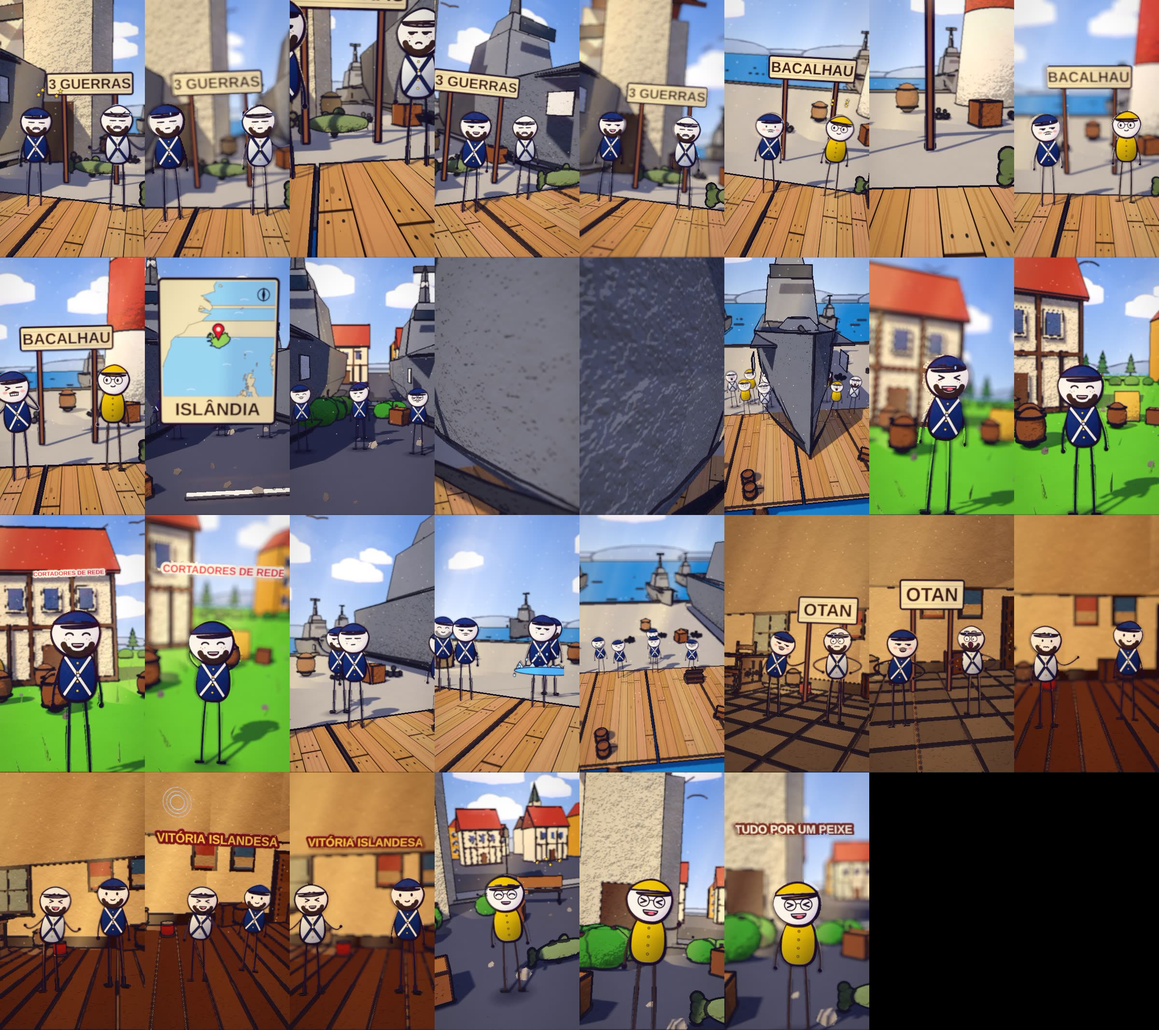
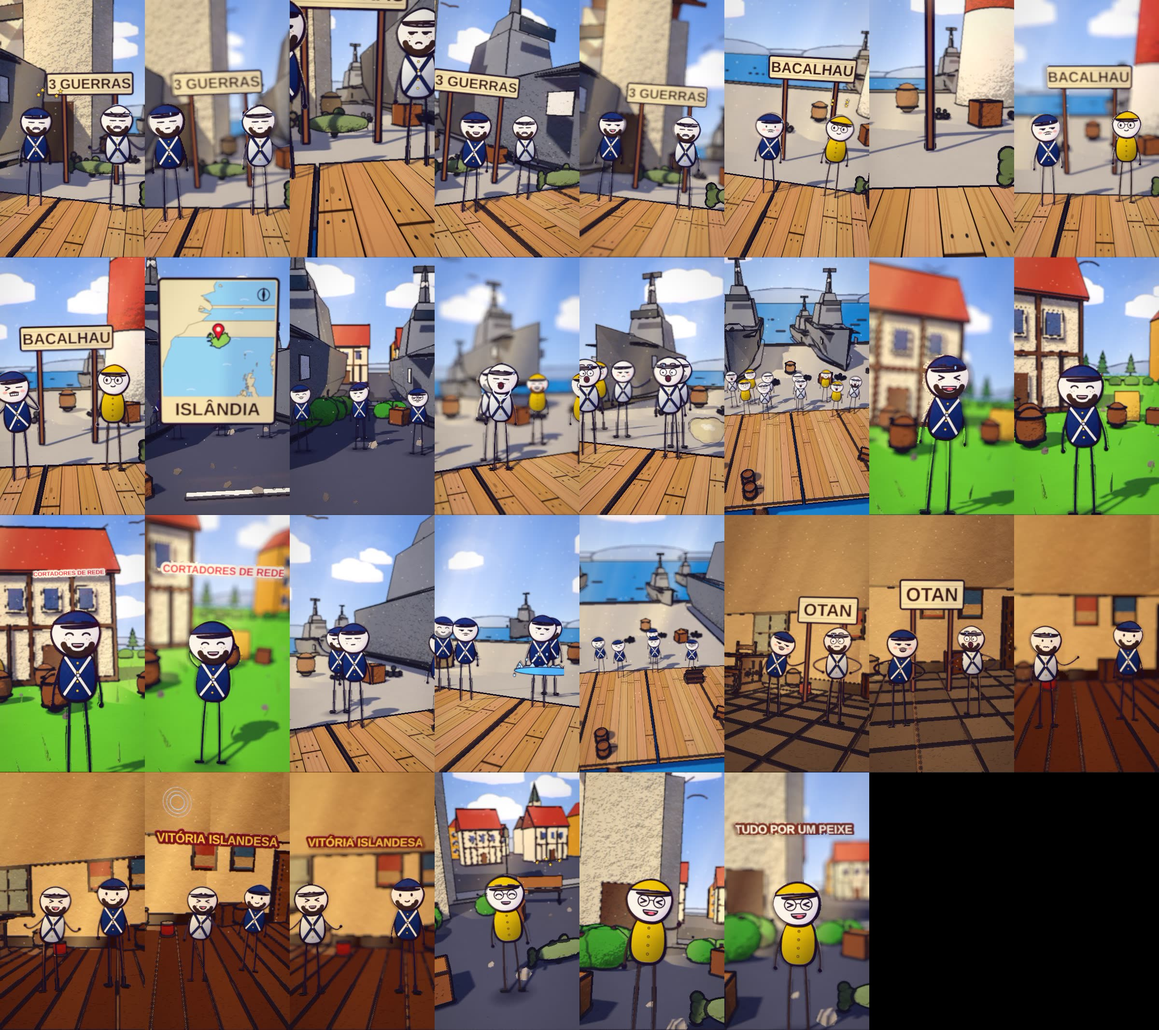
bacalhau1958 revisao+aprovacao (b3 CORRIGIDO: casco de navio cobrindo a tela)
Claude-Session: https://claude.ai/code/session_01HE8Dy3Tz5Mgz6d3rSUrMHS

Changed region(s): [[0.375, 0.2477, 0.75, 0.5263]]

diff --git a/ferramenta-shorts/stories/bacalhau1958/revisao_storyboard.md b/ferramenta-shorts/stories/bacalhau1958/revisao_storyboard.md
@@ -1,0 +1,9 @@
+b0: OK - cais com a placa 3 GUERRAS, um islandês e um inglês frente a frente com navios ao fundo, o conflito entre a Islândia e a Inglaterra por causa de peixe.
+b1: OK - placa BACALHAU, o islandês e o pescador amarelo com bacalhau e caixa ao lado, a Islândia é pequena e vivia da pesca de bacalhau perto da costa.
+b2: OK - mapa da ISLÂNDIA com marcador no mar e depois a rua com marinheiros e cascos de navio ao lado, a Islândia aumentou o limite do mar para doze, cinquenta e duzentas milhas.
+b3: CORRIGIDO - casco de navio cobria a tela inteira na marinha inglesa -> navios afastados ao fundo, três marinheiros e um pescador na frente, a Inglaterra mandou a marinha proteger os barcos.
+b4: OK - close do islandês sorrindo no campo com a placa CORTADORES DE REDE e a rede de pesca sendo puxada, a arma secreta era cortar redes.
+b5: OK - dois navios no cais, marinheiros em primeiro plano e navio chocando ao lado, cortavam os cabos das redes e os navios batiam um no outro de propósito.
+b6: OK - sala de pedra com a placa OTAN e o islandês ao lado do inglês assustado, ameaçou fechar a base da Otan no país.
+b7: OK - sala de madeira com a placa VITÓRIA ISLANDESA e o inglês pesaroso ao lado do islandês rindo, em setenta e seis os ingleses cederam e a zona se espalhou.
+b8: OK - close do pescador amarelo rindo com o bacalhau no chão e a placa TUDO POR UM PEIXE, uma guerra de navios batendo e redes cortadas por causa de um peixe.
